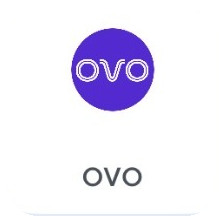
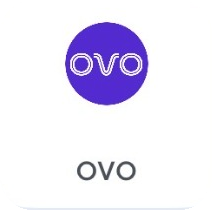
fix(clean-mode): refine typography sizes, tight ewallet gap, prominent paspor bca label, and curved sticky header on scroll

diff --git a/apps/web/src/components/CleanMode/CleanMode.tsx b/apps/web/src/components/CleanMode/CleanMode.tsx
@@ -27,6 +27,7 @@ export const CleanMode: React.FC = () => {
     // Pockets & Card Tab States (1:1 myBCA)
     const [pocketTab, setPocketTab] = useState<'rupiah' | 'forex'>('rupiah');
     const [cardTab, setCardTab] = useState<'debit' | 'credit'>('debit');
+    const [isScrolled, setIsScrolled] = useState<boolean>(false);
 
     // Financial Diary State (Exact 1:1 Matching myBCA)
     const [fdSlide, setFdSlide] = useState<number>(0);
@@ -221,11 +222,95 @@ export const CleanMode: React.FC = () => {
                 style={{ fontFamily: '-apple-system, BlinkMacSystemFont, "SF Pro Display", "SF Pro Text", "Helvetica Neue", "Plus Jakarta Sans", "Open Sans", sans-serif' }}
             >
 
-                {/* ── SCROLLABLE APP BODY (Containing Navy Header + Cards + Banners + Menu) ── */}
-                <div
-                    className="flex-1 overflow-y-auto cleanmode-no-scrollbar no-scrollbar pb-28"
-                    style={{ scrollbarWidth: 'none', msOverflowStyle: 'none' }}
-                >
+            {/* ── STICKY SCROLLED HEADER (1:1 myBCA Native Scroll Behavior) ── */}
+            <AnimatePresence>
+                {isScrolled && (
+                    <motion.div
+                        initial={{ opacity: 0, y: -20 }}
+                        animate={{ opacity: 1, y: 0 }}
+                        exit={{ opacity: 0, y: -20 }}
+                        transition={{ duration: 0.18, ease: 'easeOut' }}
+                        className="absolute top-0 left-0 right-0 z-40 bg-[#254c7f] text-white pt-[max(env(safe-area-inset-top,44px),44px)] sm:pt-4 pb-2.5 px-5 shadow-sm"
+                    >
+                        {/* Authentic myBCA organic wave background motif */}
+                        <img
+                            src="/clean-mode/header_bg_motif.png"
+                            alt=""
+                            className="absolute inset-0 w-full h-full object-cover pointer-events-none select-none z-0 opacity-80"
+                        />
+
+                        {/* Curved Downward Bottom Edge (tidak lurus, agak melengkung kebawah) */}
+                        <div className="absolute top-[calc(100%-1px)] left-0 w-full h-[14px] overflow-visible pointer-events-none z-10">
+                            <svg
+                                viewBox="0 0 414 14"
+                                className="w-full h-[14px] pointer-events-none drop-shadow-[0_4px_6px_rgba(0,0,0,0.06)]"
+                                preserveAspectRatio="none"
+                            >
+                                <path d="M 0,0 L 414,0 C 310,14 104,14 0,0 Z" fill="#254c7f" />
+                            </svg>
+                        </div>
+
+                        {/* TOP ACTION ROW (myBCA Logo + CS, Settings, Logout) */}
+                        <div className="mt-1 mb-1 flex items-center justify-between relative z-20 -ml-2 -mr-1">
+                            <div className="flex items-center cursor-pointer" onClick={() => showToast('myBCA by Bank Central Asia')}>
+                                <img
+                                    src="/clean-mode/mybca_logo_hd.png"
+                                    alt="myBCA"
+                                    className="h-[25px] w-auto object-contain drop-shadow-sm"
+                                />
+                            </div>
+
+                            <div className="flex items-center gap-[22px]">
+                                {/* Headset CS */}
+                                <button
+                                    onClick={() => showToast('Halo BCA: 1500888')}
+                                    className="hover:opacity-80 active:scale-95 transition-all p-0.5"
+                                    title="Customer Service"
+                                >
+                                    <img
+                                        src="/clean-mode/header_headset_hd.png"
+                                        alt="CS"
+                                        className="w-[22px] h-[22px] object-contain drop-shadow-sm"
+                                    />
+                                </button>
+
+                                {/* Settings / Gear */}
+                                <button
+                                    onClick={handleOpenSettings}
+                                    className="hover:opacity-80 active:scale-95 transition-all p-0.5"
+                                    title="Pengaturan Tampilan"
+                                >
+                                    <img
+                                        src="/clean-mode/header_gear_hd.png"
+                                        alt="Settings"
+                                        className="w-[22px] h-[22px] object-contain drop-shadow-sm"
+                                    />
+                                </button>
+
+                                {/* Logout Door / Return to Rupiku */}
+                                <button
+                                    onClick={() => navigate('/dashboard')}
+                                    className="hover:opacity-80 active:scale-95 transition-all p-0.5"
+                                    title="Kembali ke Dashboard Utama Rupiku"
+                                >
+                                    <img
+                                        src="/clean-mode/header_logout_hd.png"
+                                        alt="Logout"
+                                        className="w-[22px] h-[22px] object-contain drop-shadow-sm"
+                                    />
+                                </button>
+                            </div>
+                        </div>
+                    </motion.div>
+                )}
+            </AnimatePresence>
+
+            {/* ── SCROLLABLE APP BODY (Containing Navy Header + Cards + Banners + Menu) ── */}
+            <div
+                onScroll={(e) => setIsScrolled(e.currentTarget.scrollTop > 35)}
+                className="flex-1 overflow-y-auto cleanmode-no-scrollbar no-scrollbar pb-28"
+                style={{ scrollbarWidth: 'none', msOverflowStyle: 'none' }}
+            >
 
                     {/* ── 1. DEEP NAVY BLUE HEADER & CARD SECTION (Exact matching CONTOHTAMPILAN.PNG) ── */}
                     <div className="bg-[#254c7f] text-white pt-[max(env(safe-area-inset-top,44px),44px)] sm:pt-4 pb-3 px-5 relative overflow-hidden">
@@ -433,7 +518,15 @@ export const CleanMode: React.FC = () => {
                         <div className="pt-0.5 pb-1">
                             {/* Main Menu Header */}
                             <div className="flex items-center justify-between mb-3 px-1">
-                                <h2 className="text-[17px] font-extrabold text-[#0c3258] tracking-tight">Main Menu</h2>
+                                <h2
+                                    className="text-[18px] font-bold text-[#0c3258] tracking-tight"
+                                    style={{
+                                        fontFamily: '-apple-system, BlinkMacSystemFont, "SF Pro Display", "SF Pro Text", "Helvetica Neue", "Plus Jakarta Sans", sans-serif',
+                                        color: '#0c3258',
+                                    }}
+                                >
+                                    Main Menu
+                                </h2>
                                 <button
                                     onClick={() => showToast('Menu kustomisasi myBCA')}
                                     className="flex items-center gap-1 text-xs font-bold text-[#0060b2] hover:text-blue-800"
@@ -580,7 +673,7 @@ export const CleanMode: React.FC = () => {
                         {/* PROMO BANNER 2 ("Pay 1 Get 2" Doodle Aliens matching CONTOHTAMPILAN.PNG) */}
                         <div
                             onClick={() => showToast('Promo Pay 1 Get 2 myBCA')}
-                            className="cursor-pointer active:scale-[0.99] transition-transform rounded-2xl overflow-hidden shadow-sm mt-2 mb-2"
+                            className="cursor-pointer active:scale-[0.99] transition-transform rounded-2xl overflow-hidden shadow-sm mt-2 mb-1"
                         >
                             <img
                                 src="/clean-mode/banner_aliens_exact.png"
@@ -589,12 +682,21 @@ export const CleanMode: React.FC = () => {
                             />
                         </div>
 
+                        {/* Carousel Indicator Dots below Banner 2 matching SS 1 */}
+                        <div className="flex items-center justify-center gap-1.5 pt-0.5 pb-1">
+                            <div className="w-[5px] h-[5px] rounded-full bg-[#cfd8dc]" />
+                            <div className="w-[5px] h-[5px] rounded-full bg-[#cfd8dc]" />
+                            <div className="w-[5.5px] h-[5.5px] rounded-full bg-[#00a2e8]" />
+                            <div className="w-[5px] h-[5px] rounded-full bg-[#cfd8dc]" />
+                            <div className="w-[5px] h-[5px] rounded-full bg-[#cfd8dc]" />
+                        </div>
+
                         {/* ── SEKSI 1: POCKETS (Exact 1:1 Matching myBCA) ── */}
                         <div className="pt-0.5 pb-1">
                             {/* Section Header */}
                             <div className="flex items-center justify-between mb-2.5 px-1">
                                 <h2
-                                    className="text-[16px] font-bold text-[#0c3258] tracking-tight"
+                                    className="text-[18px] font-bold text-[#0c3258] tracking-tight"
                                     style={{
                                         fontFamily: '-apple-system, BlinkMacSystemFont, "SF Pro Display", "SF Pro Text", "Helvetica Neue", "Plus Jakarta Sans", sans-serif',
                                         color: '#0c3258',
@@ -608,9 +710,9 @@ export const CleanMode: React.FC = () => {
                             <div className="flex items-center gap-2 mb-2.5">
                                 <button
                                     onClick={() => setPocketTab('rupiah')}
-                                    className={`px-3 py-1.5 rounded-[10px] text-[13px] transition-all cursor-pointer ${
+                                    className={`px-3.5 py-1.5 rounded-[11px] text-[14px] transition-all cursor-pointer ${
                                         pocketTab === 'rupiah'
-                                            ? 'border-[1.5px] border-[#005caa] bg-[#e4f2fe] text-[#334155] font-semibold shadow-xs'
+                                            ? 'border-[1.5px] border-[#005caa] bg-[#e4f2fe] text-[#2d3748] font-medium shadow-xs'
                                             : 'border-[1.5px] border-[#cfcfcf] bg-white text-[#6e7479] font-normal hover:bg-slate-50'
                                     }`}
                                     style={{
@@ -621,9 +723,9 @@ export const CleanMode: React.FC = () => {
                                 </button>
                                 <button
                                     onClick={() => setPocketTab('forex')}
-                                    className={`px-3 py-1.5 rounded-[10px] text-[13px] transition-all cursor-pointer ${
+                                    className={`px-3.5 py-1.5 rounded-[11px] text-[14px] transition-all cursor-pointer ${
                                         pocketTab === 'forex'
-                                            ? 'border-[1.5px] border-[#005caa] bg-[#e4f2fe] text-[#334155] font-semibold shadow-xs'
+                                            ? 'border-[1.5px] border-[#005caa] bg-[#e4f2fe] text-[#2d3748] font-medium shadow-xs'
                                             : 'border-[1.5px] border-[#cfcfcf] bg-white text-[#6e7479] font-normal hover:bg-slate-50'
                                     }`}
                                     style={{
@@ -635,17 +737,17 @@ export const CleanMode: React.FC = () => {
                             </div>
 
                             {/* Pocket Info Card */}
-                            <div className="bg-white rounded-[18px] border border-[#eef2f6] shadow-[0_2px_10px_rgba(0,0,0,0.03)] p-4 flex items-center gap-3.5">
+                            <div className="bg-white rounded-[20px] border border-[#eef2f6] shadow-[0_2px_10px_rgba(0,0,0,0.03)] p-4 flex items-center gap-3.5">
                                 {pocketTab === 'rupiah' ? (
                                     <>
                                         <img
                                             src="/clean-mode/pocket_illustration_hd.png"
                                             alt="Pocket"
-                                            className="w-[48px] h-auto object-contain shrink-0"
+                                            className="w-[54px] sm:w-[58px] h-auto object-contain shrink-0"
                                         />
                                         <div className="flex-1 min-w-0">
                                             <p
-                                                className="text-[12px] leading-[17px] text-[#4a5568] font-normal"
+                                                className="text-[13.5px] leading-[19px] text-[#4a5568] font-normal"
                                                 style={{
                                                     fontFamily: '-apple-system, BlinkMacSystemFont, "SF Pro Display", "SF Pro Text", "Helvetica Neue", "Plus Jakarta Sans", sans-serif',
                                                 }}
@@ -654,7 +756,7 @@ export const CleanMode: React.FC = () => {
                                             </p>
                                             <button
                                                 onClick={() => showToast('Buat Pocket Baru di myBCA')}
-                                                className="text-[13px] font-bold text-[#005caa] hover:underline mt-2 inline-block text-left cursor-pointer active:scale-95 transition-transform"
+                                                className="text-[15px] font-bold text-[#005caa] hover:underline mt-2.5 inline-block text-left cursor-pointer active:scale-95 transition-transform"
                                                 style={{
                                                     fontFamily: '-apple-system, BlinkMacSystemFont, "SF Pro Display", "SF Pro Text", "Helvetica Neue", "Plus Jakarta Sans", sans-serif',
                                                 }}
@@ -668,11 +770,11 @@ export const CleanMode: React.FC = () => {
                                         <img
                                             src="/clean-mode/pocket_illustration_hd.png"
                                             alt="Pocket"
-                                            className="w-[48px] h-auto object-contain shrink-0"
+                                            className="w-[54px] sm:w-[58px] h-auto object-contain shrink-0"
                                         />
                                         <div className="flex-1 min-w-0">
                                             <p
-                                                className="text-[12px] leading-[17px] text-[#4a5568] font-normal"
+                                                className="text-[13.5px] leading-[19px] text-[#4a5568] font-normal"
                                                 style={{
                                                     fontFamily: '-apple-system, BlinkMacSystemFont, "SF Pro Display", "SF Pro Text", "Helvetica Neue", "Plus Jakarta Sans", sans-serif',
                                                 }}
@@ -681,7 +783,7 @@ export const CleanMode: React.FC = () => {
                                             </p>
                                             <button
                                                 onClick={() => showToast('Buat Forex Pocket di myBCA')}
-                                                className="text-[13px] font-bold text-[#005caa] hover:underline mt-2 inline-block text-left cursor-pointer active:scale-95 transition-transform"
+                                                className="text-[15px] font-bold text-[#005caa] hover:underline mt-2.5 inline-block text-left cursor-pointer active:scale-95 transition-transform"
                                                 style={{
                                                     fontFamily: '-apple-system, BlinkMacSystemFont, "SF Pro Display", "SF Pro Text", "Helvetica Neue", "Plus Jakarta Sans", sans-serif',
                                                 }}
@@ -699,7 +801,7 @@ export const CleanMode: React.FC = () => {
                             {/* Section Header */}
                             <div className="flex items-center justify-between mb-2.5 px-1">
                                 <h2
-                                    className="text-[16px] font-bold text-[#0c3258] tracking-tight"
+                                    className="text-[18px] font-bold text-[#0c3258] tracking-tight"
                                     style={{
                                         fontFamily: '-apple-system, BlinkMacSystemFont, "SF Pro Display", "SF Pro Text", "Helvetica Neue", "Plus Jakarta Sans", sans-serif',
                                         color: '#0c3258',
@@ -709,8 +811,8 @@ export const CleanMode: React.FC = () => {
                                 </h2>
                             </div>
 
-                            {/* e-Wallet Grid Cards */}
-                            <div className="grid grid-cols-4 gap-2.5">
+                            {/* e-Wallet Grid Cards (Tight gap matching SS 1) */}
+                            <div className="grid grid-cols-4 gap-2">
                                 <div
                                     onClick={() => showToast('Sakuku BCA')}
                                     className="cursor-pointer active:scale-95 transition-transform"
@@ -759,7 +861,7 @@ export const CleanMode: React.FC = () => {
                             {/* Section Header */}
                             <div className="flex items-center justify-between mb-2.5 px-1">
                                 <h2
-                                    className="text-[16px] font-bold text-[#0c3258] tracking-tight"
+                                    className="text-[18px] font-bold text-[#0c3258] tracking-tight"
                                     style={{
                                         fontFamily: '-apple-system, BlinkMacSystemFont, "SF Pro Display", "SF Pro Text", "Helvetica Neue", "Plus Jakarta Sans", sans-serif',
                                         color: '#0c3258',
@@ -773,9 +875,9 @@ export const CleanMode: React.FC = () => {
                             <div className="flex items-center gap-2 mb-2.5">
                                 <button
                                     onClick={() => setCardTab('debit')}
-                                    className={`px-3 py-1.5 rounded-[10px] text-[13px] transition-all cursor-pointer ${
+                                    className={`px-3.5 py-1.5 rounded-[11px] text-[14px] transition-all cursor-pointer ${
                                         cardTab === 'debit'
-                                            ? 'border-[1.5px] border-[#005caa] bg-[#e4f2fe] text-[#334155] font-semibold shadow-xs'
+                                            ? 'border-[1.5px] border-[#005caa] bg-[#e4f2fe] text-[#2d3748] font-medium shadow-xs'
                                             : 'border-[1.5px] border-[#cfcfcf] bg-white text-[#6e7479] font-normal hover:bg-slate-50'
                                     }`}
                                     style={{
@@ -786,9 +888,9 @@ export const CleanMode: React.FC = () => {
                                 </button>
                                 <button
                                     onClick={() => setCardTab('credit')}
-                                    className={`px-3 py-1.5 rounded-[10px] text-[13px] transition-all cursor-pointer ${
+                                    className={`px-3.5 py-1.5 rounded-[11px] text-[14px] transition-all cursor-pointer ${
                                         cardTab === 'credit'
-                                            ? 'border-[1.5px] border-[#005caa] bg-[#e4f2fe] text-[#334155] font-semibold shadow-xs'
+                                            ? 'border-[1.5px] border-[#005caa] bg-[#e4f2fe] text-[#2d3748] font-medium shadow-xs'
                                             : 'border-[1.5px] border-[#cfcfcf] bg-white text-[#6e7479] font-normal hover:bg-slate-50'
                                     }`}
                                     style={{
@@ -800,18 +902,18 @@ export const CleanMode: React.FC = () => {
                             </div>
 
                             {/* Card Item Container */}
-                            <div className="bg-white rounded-[18px] border border-[#eef2f6] shadow-[0_2px_10px_rgba(0,0,0,0.03)] px-3.5 py-3.5 flex items-center justify-between">
+                            <div className="bg-white rounded-[20px] border border-[#eef2f6] shadow-[0_2px_10px_rgba(0,0,0,0.03)] px-3.5 py-3.5 flex items-center justify-between">
                                 {cardTab === 'debit' ? (
                                     <>
                                         <div className="flex items-center gap-3 min-w-0">
                                             <img
                                                 src="/clean-mode/card_paspor_platinum_hd.png"
                                                 alt="Paspor BCA Platinum"
-                                                className="w-[54px] h-auto object-contain rounded-[4px] shadow-xs shrink-0"
+                                                className="w-[58px] sm:w-[62px] h-auto object-contain rounded-[4px] shadow-xs shrink-0"
                                             />
                                             <div className="min-w-0">
                                                 <p
-                                                    className="text-[12.5px] font-bold text-[#2d3748] tracking-wider whitespace-nowrap"
+                                                    className="text-[15px] font-bold text-[#2d3748] tracking-wider whitespace-nowrap"
                                                     style={{
                                                         fontFamily: '-apple-system, BlinkMacSystemFont, "SF Pro Display", "SF Pro Text", "Helvetica Neue", "Plus Jakarta Sans", sans-serif',
                                                     }}
@@ -819,7 +921,7 @@ export const CleanMode: React.FC = () => {
                                                     5260 - **** - **** - **60
                                                 </p>
                                                 <p
-                                                    className="text-[10px] font-semibold text-[#6b7280] tracking-wider mt-0.5 whitespace-nowrap"
+                                                    className="text-[12.5px] font-medium text-[#596066] tracking-wide mt-0.5 whitespace-nowrap"
                                                     style={{
                                                         fontFamily: '-apple-system, BlinkMacSystemFont, "SF Pro Display", "SF Pro Text", "Helvetica Neue", "Plus Jakarta Sans", sans-serif',
                                                     }}
@@ -835,19 +937,19 @@ export const CleanMode: React.FC = () => {
                                                 fontFamily: '-apple-system, BlinkMacSystemFont, "SF Pro Display", "SF Pro Text", "Helvetica Neue", "Plus Jakarta Sans", sans-serif',
                                             }}
                                         >
-                                            <Settings className="w-3.5 h-3.5 stroke-[2.4]" />
-                                            <span className="text-[12px] font-bold">Manage</span>
+                                            <Settings className="w-4 h-4 stroke-[2.4]" />
+                                            <span className="text-[14.5px] font-bold">Manage</span>
                                         </button>
                                     </>
                                 ) : (
                                     <>
                                         <div className="flex items-center gap-3 min-w-0">
-                                            <div className="w-[54px] h-[34px] rounded-[4px] bg-gradient-to-tr from-[#1a365d] to-[#2b6cb0] flex items-center justify-center shadow-xs shrink-0">
-                                                <span className="text-[8.5px] font-bold text-white tracking-widest">BCA</span>
+                                            <div className="w-[58px] sm:w-[62px] h-[36px] rounded-[4px] bg-gradient-to-tr from-[#1a365d] to-[#2b6cb0] flex items-center justify-center shadow-xs shrink-0">
+                                                <span className="text-[9px] font-bold text-white tracking-widest">BCA</span>
                                             </div>
                                             <div className="min-w-0">
                                                 <p
-                                                    className="text-[12.5px] font-bold text-[#2d3748] tracking-wider whitespace-nowrap"
+                                                    className="text-[15px] font-bold text-[#2d3748] tracking-wider whitespace-nowrap"
                                                     style={{
                                                         fontFamily: '-apple-system, BlinkMacSystemFont, "SF Pro Display", "SF Pro Text", "Helvetica Neue", "Plus Jakarta Sans", sans-serif',
                                                     }}
@@ -855,7 +957,7 @@ export const CleanMode: React.FC = () => {
                                                     BCA Everyday Card
                                                 </p>
                                                 <p
-                                                    className="text-[10px] font-semibold text-[#6b7280] tracking-wider mt-0.5 whitespace-nowrap"
+                                                    className="text-[12.5px] font-medium text-[#596066] tracking-wide mt-0.5 whitespace-nowrap"
                                                     style={{
                                                         fontFamily: '-apple-system, BlinkMacSystemFont, "SF Pro Display", "SF Pro Text", "Helvetica Neue", "Plus Jakarta Sans", sans-serif',
                                                     }}
@@ -871,8 +973,8 @@ export const CleanMode: React.FC = () => {
                                                 fontFamily: '-apple-system, BlinkMacSystemFont, "SF Pro Display", "SF Pro Text", "Helvetica Neue", "Plus Jakarta Sans", sans-serif',
                                             }}
                                         >
-                                            <Settings className="w-3.5 h-3.5 stroke-[2.4]" />
-                                            <span className="text-[12px] font-bold">Manage</span>
+                                            <Settings className="w-4 h-4 stroke-[2.4]" />
+                                            <span className="text-[14.5px] font-bold">Manage</span>
                                         </button>
                                     </>
                                 )}
@@ -884,7 +986,7 @@ export const CleanMode: React.FC = () => {
                             {/* Section Header */}
                             <div className="flex items-center justify-between mb-2.5 px-1">
                                 <h2
-                                    className="text-[16px] font-bold text-[#0c3258] tracking-tight"
+                                    className="text-[18px] font-bold text-[#0c3258] tracking-tight"
                                     style={{
                                         fontFamily: '-apple-system, BlinkMacSystemFont, "SF Pro Display", "SF Pro Text", "Helvetica Neue", "Plus Jakarta Sans", sans-serif',
                                         color: '#0c3258',
@@ -893,10 +995,10 @@ export const CleanMode: React.FC = () => {
                                     Financial Diary
                                 </h2>
                                 <span
-                                    className="text-[13px] font-medium"
+                                    className="text-[15px] font-medium"
                                     style={{
                                         fontFamily: '-apple-system, BlinkMacSystemFont, "SF Pro Display", "SF Pro Text", "Helvetica Neue", "Plus Jakarta Sans", sans-serif',
-                                        color: '#7e8d9f',
+                                        color: '#718096',
                                     }}
                                 >
                                     Cashflow
